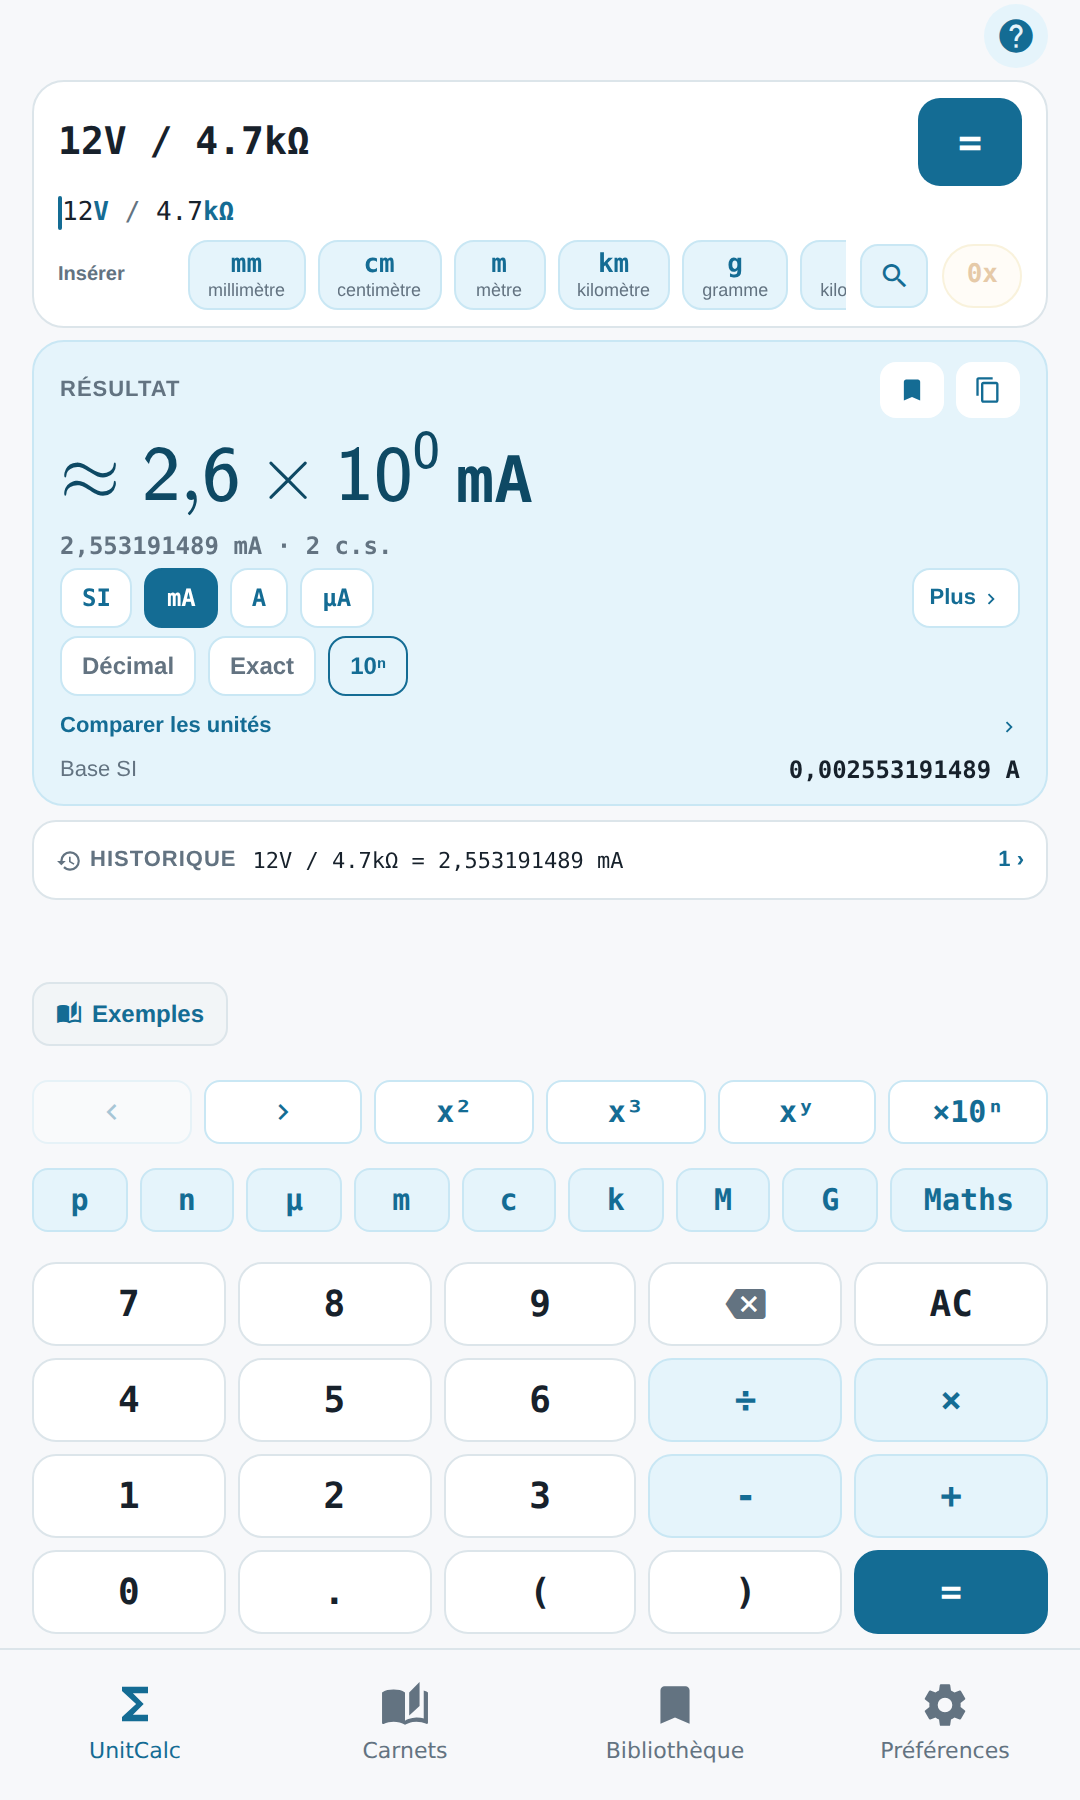
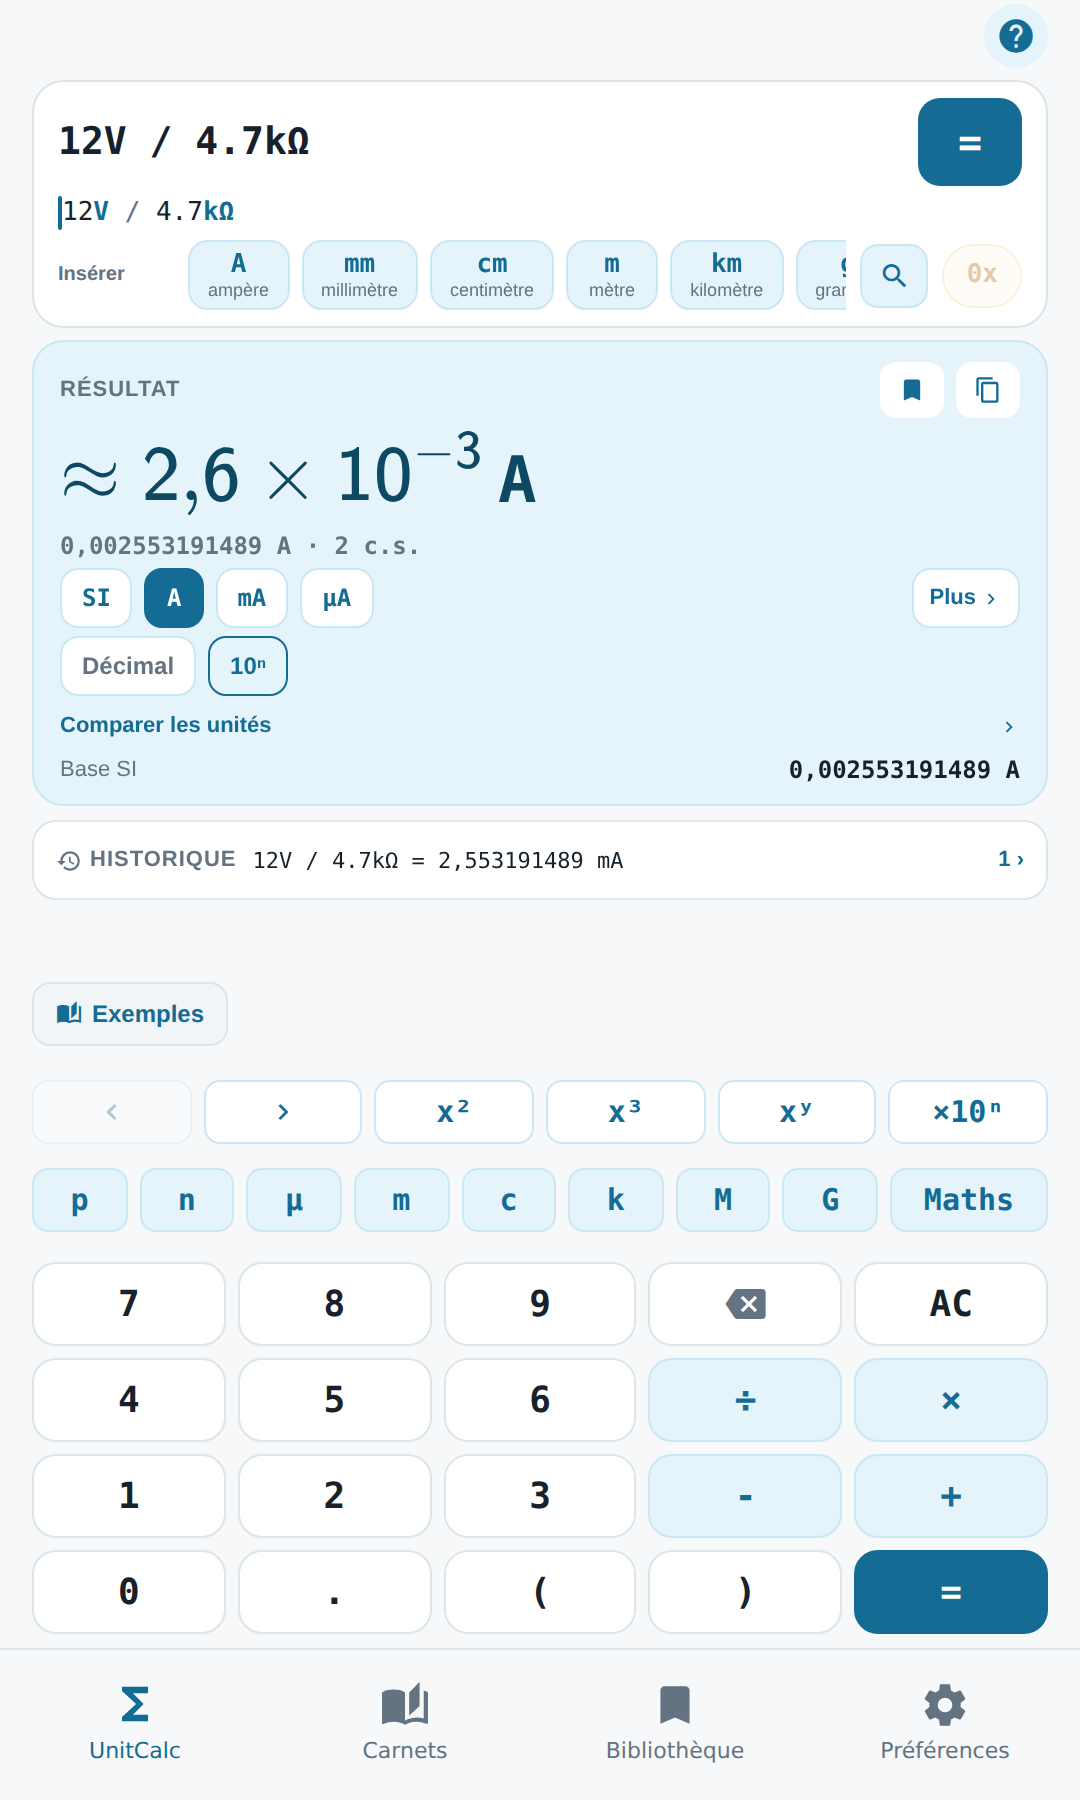
有効数字のカットを 10⁻³ A に撮り直す
既定のままだと表示単位の自動選択が mA を選び、科学表記にしても
`2.6 × 10⁰ mA` と指数が0になって「なぜ科学表記にしたのか」が
絵から伝わらなかった。単位チップの A を明示的に押してから撮る。

- 6言語とも `≈ 2.6 × 10⁻³ A` ＋ `0.002553191489 A · 2 s.f.` になった
- SIチップでは駄目だった。あれは targetUnit を空にするだけで、
  空のときは自動選択が働いて mA に戻る（lib/display-unit.ts の優先順）
- SIチップの accessibilityLabel は画面の "SI" ではなく copy.noUnit
  （SI標準 / SI base / SI-Basis …）で、そもそも別物だった
- A にすると値の分母が1000を超えて厳密値が見つからず Exact チップが
  消えるが、これは想定どおりなので README に書いた

Claude-Session: https://claude.ai/code/session_01253Php5oM8E3hGDGWNaqqt

Changed region(s): [[0.2139, 0.1244, 0.7639, 0.1867], [0.0917, 0.28, 0.3667, 0.4044], [0.3972, 0.2489, 0.4889, 0.28]]

diff --git a/submission-assets/README.md b/submission-assets/README.md
@@ -37,7 +37,7 @@
 | `14-exam-samples` | サンプルシートを開き、**その国の試験名になっているタブ**を選んだ状態 |
 | `15-prefix-cancel` | `4.7kΩ × 2mA` → `9.4 V`（k と m が打ち消える） |
 | `16-ohms-law` | `1kΩ × 1mA` → `1 V`（**アイコン・フィーチャーグラフィック・短い説明と同じ式**） |
-| `17-significant-figures` | `12V / 4.7kΩ` を科学表記に切り替え、`≈ 2.6 × 10⁰ mA` と `2.553191489 mA · 2 s.f.` が並んだ状態 |
+| `17-significant-figures` | `12V / 4.7kΩ` で単位チップ `A` を選んでから科学表記に切り替え、`≈ 2.6 × 10⁻³ A` と `0.002553191489 A · 2 s.f.` が並んだ状態 |
 
 10〜13番は 2026-09-06 に追加したカット（PR #42 の厳密値表示と PR #48 のノート検索）。
 14・15番は 2026-09-08 に追加（言語ごとのターゲットに合わせた掲載用）。
@@ -46,6 +46,13 @@
 **17番は「丸めた」ではなく「あなたが打った精度はここまで」を見せる1枚。** 丸めた値の下に
 **丸める前の値と桁数**が残っているのが要点で、ここが写っていないとただの科学表記に見える。
 掲載文の有効数字の節（2026-09-12に全言語へ追加）と同じ式にしてあるので、文章と画像が一致する。
+
+**撮る前に単位チップの `A` を明示的に押すこと（2026-09-13）。** 既定のままだと表示単位の自動選択が
+`mA` を選び、科学表記にしても **`2.6 × 10⁰ mA` と指数が0**になって「なぜ科学表記にしたのか」が
+絵から伝わらない。`A` を選ぶと `2.6 × 10⁻³ A` になり、指数が仕事をしているのが一目で分かる。
+**`SI` チップでは駄目**——あれは `targetUnit` を空にするだけで、空のときは自動選択が働いて `mA` に戻る
+（`lib/display-unit.ts` の優先順）。なお `A` にすると値の分母が1000を超えて厳密値が見つからなくなるため、
+`Exact` チップは消えて `Decimal` / `10ⁿ` の2つになる（想定どおり）。
 
 **15 と 16 は似て見えるが役割が違う。** 16 はアイコン・図版・短い説明に出てくるのと**同じ式**で、
 ストアで「アイコン → フィーチャーグラフィック → スクショ」と見ていく導線に同じ計算を3回置くためのもの
